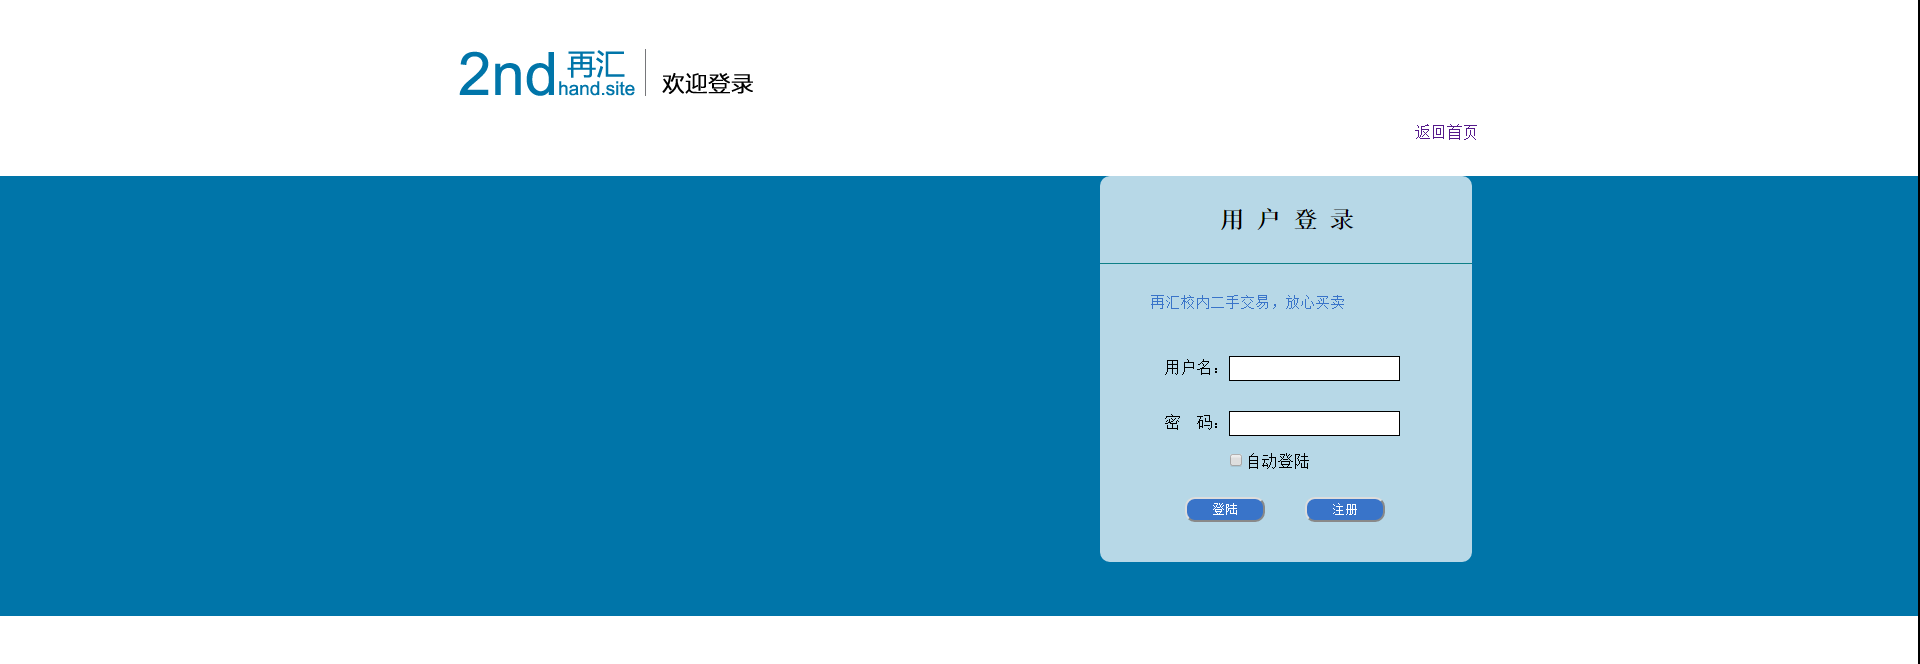
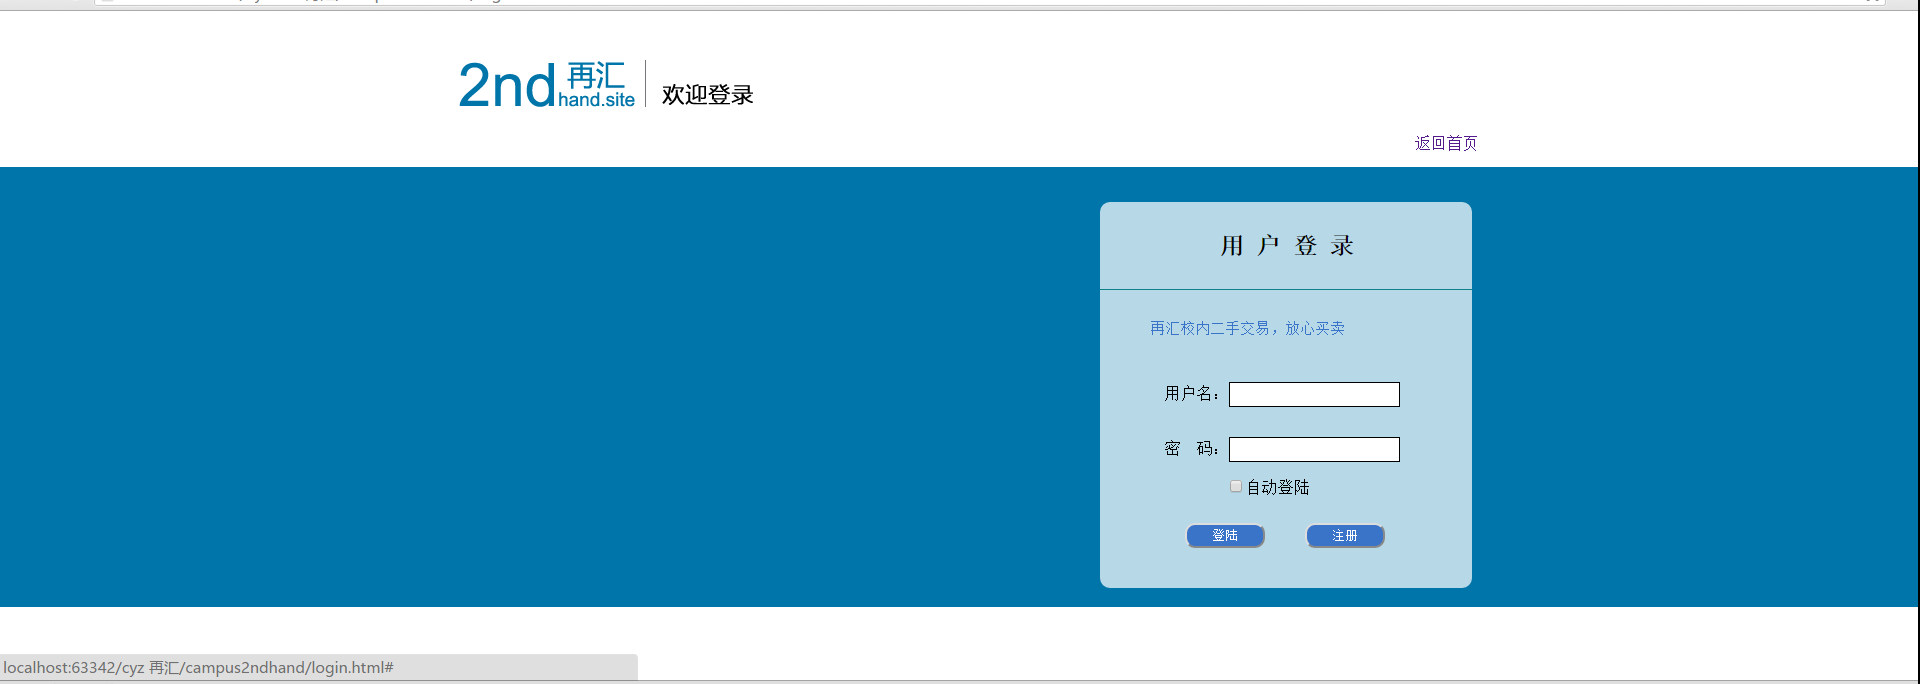
登陆界面三次修改

diff --git a/login.html b/login.html
@@ -15,6 +15,7 @@
 </div>
 <div class="container">
   <div class="loginBox">
+    <div class="DLbox">
     <div class="topBox"><h2 class="name">用 户 登 录</h2></div>
     <div class="middleBox">再汇校内二手交易，放心买卖</div>
     <div class="logincont">
@@ -24,6 +25,7 @@
       <div class="autologin"><input type="checkbox" id="a1"><label for="a1">自动登陆</label></div>
       <div><input type="button" value="登陆" class="login_btn"></div>
       <div ><input type="button" value="注册" class="reg_btn"> </div>
+    </div>
       </div>
   </div>
 </div>

diff --git a/css/login.css b/css/login.css
@@ -24,9 +24,13 @@ a{text-decoration:none;}
 .loginBox{
     width: 372px;
     margin: 0px 200px 50px 1100px;
-    background-color: #B7D8E7;
    -webkit-border-radius: 10px;
-
+   padding-top: 15px;
+}
+.DLbox{
+  border-spacing: 10px 0;
+    background-color: #B7D8E7;
+    -webkit-border-radius: 10px;
 }
 
 .topBox{
